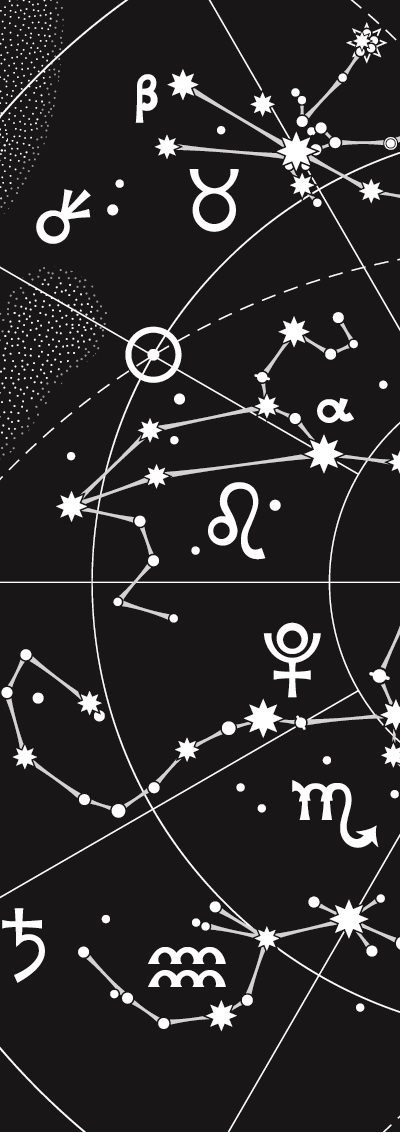
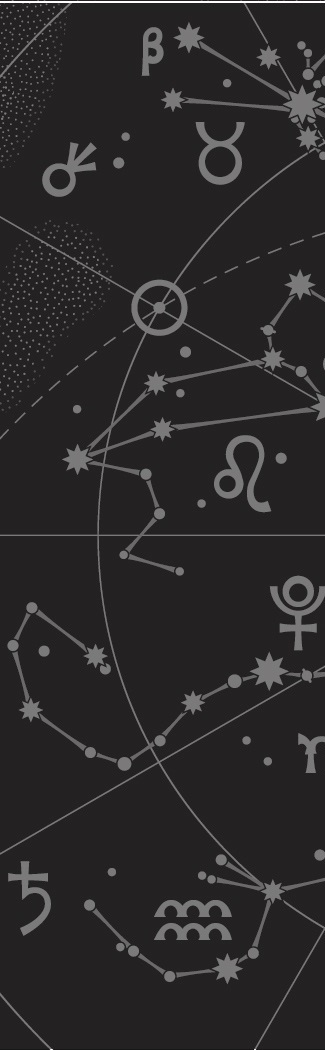
grayed the background to make the front pop

diff --git a/style/style.css b/style/style.css
@@ -36,7 +36,7 @@ h1,h2,h3,h4{
 /*Header Component*/
 @media only screen and (min-width: 750px) {
   body{
-  	background-image:url("../public/img/const.jpg");
+  	background-image:url("../public/img/constgray.jpg");
    	background-repeat: no-repeat;
     background-attachment: fixed;
     background-position: center;
